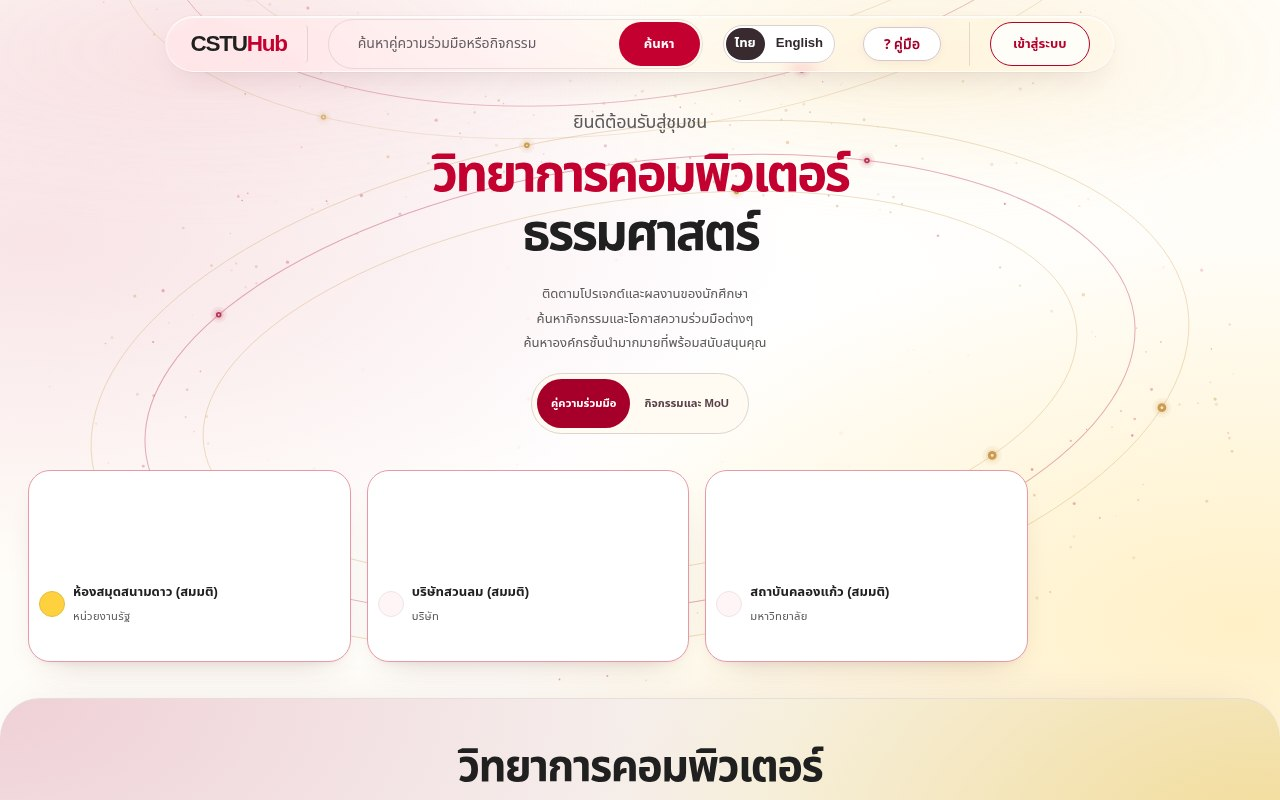
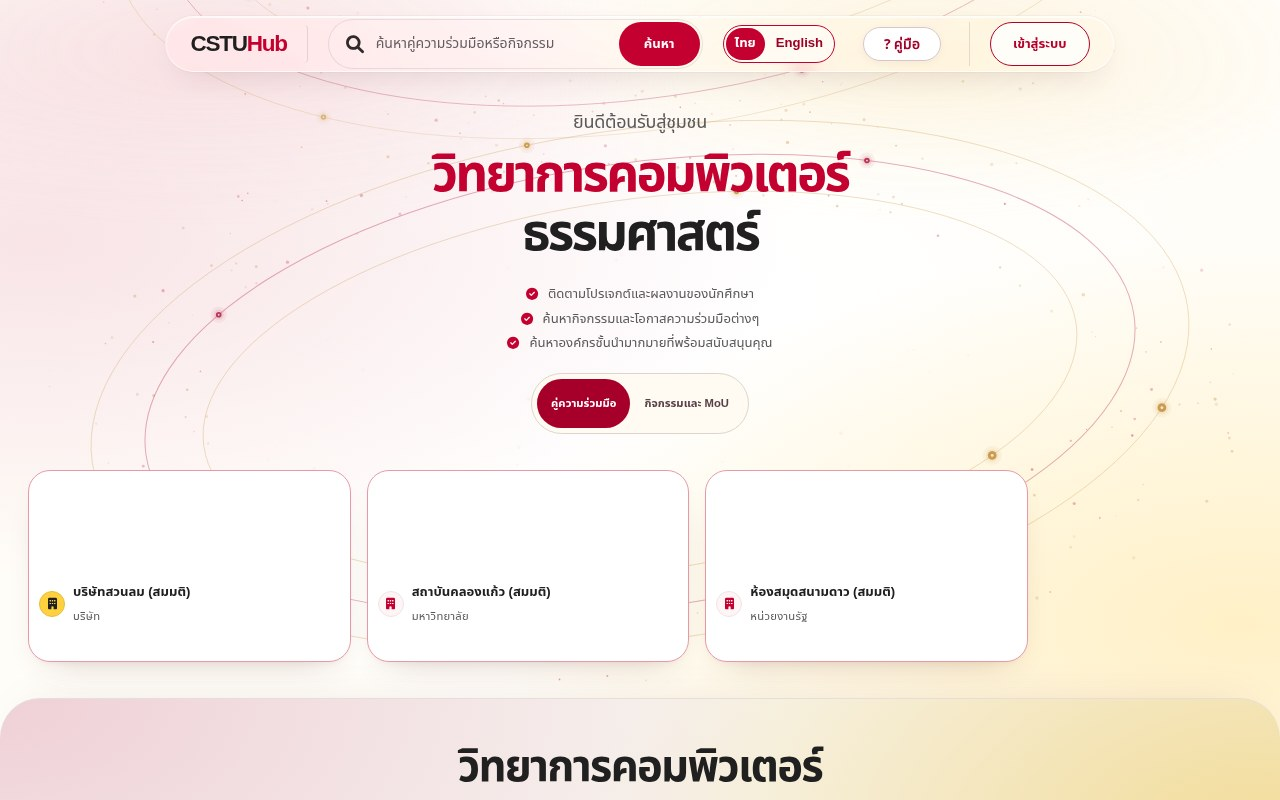
Match the public language switch to the CSTUHub palette

diff --git a/public/assets/public-language.css b/public/assets/public-language.css
@@ -4,10 +4,10 @@
     gap: 2px;
     inline-size: max-content;
     padding: 2px;
-    border: 1px solid #d8d1d3;
+    border: 1px solid var(--tu-red, #c3002f);
     border-radius: 999px;
-    background: #fff;
-    color: #33292d;
+    background: #fffaf2;
+    color: var(--tu-red-hover, #9f0026);
     font: 600 0.875rem/1.2 'Noto Sans Thai', sans-serif;
 }
 .public-language[hidden] { display: none; }
@@ -23,8 +23,8 @@
     min-width: 34px;
     cursor: pointer;
 }
-.public-language button[aria-pressed="true"] { background: #382a2f; color: #fff; }
-.public-language button:focus-visible { outline: 3px solid #0964a0; outline-offset: 2px; }
+.public-language button[aria-pressed="true"] { background: var(--tu-red, #c3002f); color: #fff; }
+.public-language button:focus-visible { outline: 3px solid var(--text-dark, #202020); outline-offset: 2px; }
 .login-header > .public-language { margin-inline-start: auto; }
 .login-header .back-link { margin-inline-start: 0.6rem; }
 .detail-toolbar > .public-language, .manual-header > .public-language { flex: none; }
